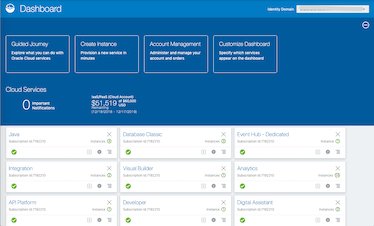
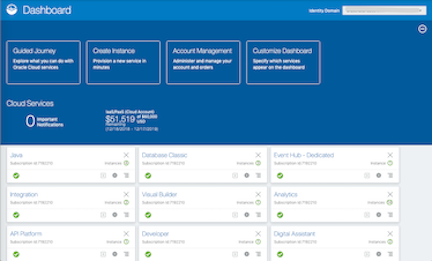
Lab1 updates

diff --git a/ospa-library/appdev/application-development-lab/applicationdevelopment-labguide.md b/ospa-library/appdev/application-development-lab/applicationdevelopment-labguide.md
@@ -87,13 +87,33 @@ classroom and supporting lab files.
 
 1.  Log into class tenancy using cloud.oracle.com
 
-    ![](./media/image5.png)
 
-&nbsp;&nbsp;&nbsp;&nbsp;&nbsp;&nbsp;Figure 1.1 - Login<br/>
+    ![](./media/cloud-oracle-com-tenancy.png)
 
-2.  On some systems you will see a “dashboard” as shown below.
+&nbsp;&nbsp;&nbsp;&nbsp;&nbsp;&nbsp;Figure 1.1 - Tenancy<br/>
 
-    ![](./media/vbcs_cloud_dashboard.png)
+
+  ![](./media/image5.png)
+
+&nbsp;&nbsp;&nbsp;&nbsp;&nbsp;&nbsp;Figure 1.2   - Login<br/>
+
+2.  Some systems will offer a "Guided Journey"
+
+
+   ![](./media/cloud-guided-journey.png)
+
+&nbsp;&nbsp;&nbsp;&nbsp;&nbsp;&nbsp;Figure 1.2.1 - Guided Journey<br/>
+
+If you see the "Guided Journey" select the "Dashboard" icon
+
+   ![](./media/cloud-guided-journey-dashboardbtn.png)
+
+&nbsp;&nbsp;&nbsp;&nbsp;&nbsp;&nbsp;Figure 1.2.2 - Guided Journey<br/>
+
+
+On some systems you will go straight to a “dashboard” as shown below. (same as coming from Guided Journey)
+
+  ![](./media/vbcs_cloud_dashboard.png)
 
 &nbsp;&nbsp;&nbsp;&nbsp;&nbsp;&nbsp;Figure 1.2 - Dashboard<br/>
 
@@ -293,7 +313,7 @@ upper-left corner.
 
 <!-- end list -->
 
-  - A (text) productName Product Name
+  - A (text) productName Product Name (already done above)
 
   - A (text) product Description Product Description
 
@@ -352,8 +372,8 @@ Click on the plus sign “+” to begin adding relationships.
 
 &nbsp;&nbsp;&nbsp;&nbsp;&nbsp;&nbsp;Figure 2.10.3 – Add Relationship
 
-Use the “drop down” on the right side of the screen to select “Product”
-and check to make sure that “Product” is on the “One” side and
+Use the “drop down” on the right side of the screen to select “Product Order”
+and check to make sure that “Product Order” is on the “One” side and
 “ProductOrderLine” is on the “Many” side of the relationship. Click
 “Create Relationship” (default values are ok).
 
@@ -363,16 +383,15 @@ and check to make sure that “Product” is on the “One” side and
 
    Click on the plus sign “+” to add another relationship.
 
-![](./media/image39.png)
+![](./media/image40.png)
 
 &nbsp;&nbsp;&nbsp;&nbsp;&nbsp;&nbsp;Figure 2.10.5 – Add next relationship
 
-Using the drop-down on the right side of the screen select the “Product
-Order” and make sure that “Product Order Line” is on the “Many” side and
-that “Product Order” is on the “One” side of the relationship. Click
+Using the drop-down on the right side of the screen select the “Product” and make sure that “Product Order Line” is on the “Many” side and
+that “Product” is on the “One” side of the relationship. Click
 “Create Relationship” when done (defaults are ok).
 
-![](./media/image40.png)
+![](./media/image39.png)
 
 &nbsp;&nbsp;&nbsp;&nbsp;&nbsp;&nbsp;Figure 2.10.6 – Add second relationship
 
@@ -415,7 +434,7 @@ The completed field list should look like this:
 
 ![](./media/image47.png)
 
-12. Reopen the “Product Business Object” and click “+ Add Row” to add a
+12. Reopen the “Product" Business Object (from the Business Objects list); click on the "Data" tab and then click “+ Add Row” to add a
     row of data
 
 ![](./media/image48.png)
@@ -431,6 +450,8 @@ The completed field list should look like this:
   - Product Description Mozzarella cheese
 
   - Unit Price 7
+
+  (click the "Checkmark" ![](./media/vbcs_checkmark.png) when done)
 
 ![](./media/image49.png)
 
@@ -514,7 +535,7 @@ Click the “Import” button to upload the selected file
 
 &nbsp;&nbsp;&nbsp;&nbsp;&nbsp;&nbsp;Figure 2.19 – Product List
 
-20. Create an initial “Product Order” as follows, then review your
+20. Create an initial “Product Order” (Product Order -> Data -> + Add Row) as follows, then review your
     results  
     ![](./media/image60.png)
 
